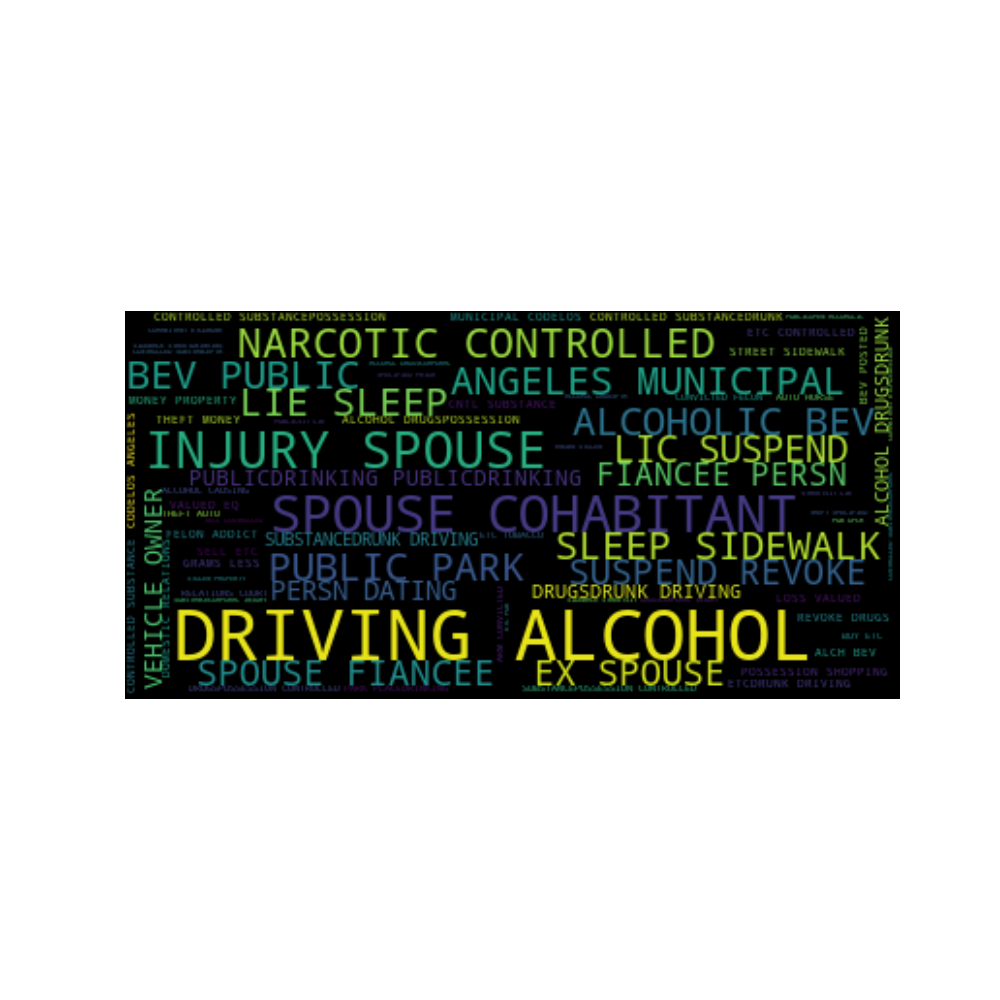
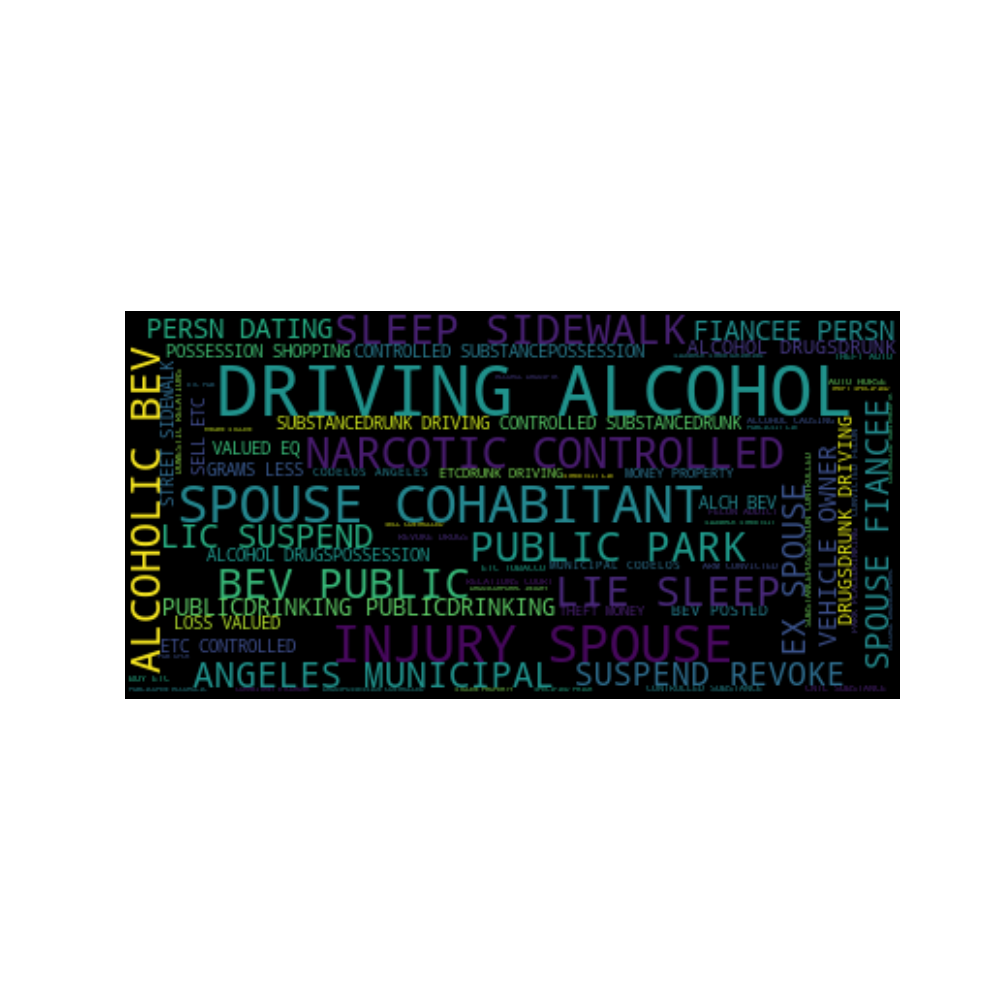
feat: histogram of charges and charge groups

Changed region(s): [[0.124, 0.31, 0.899, 0.713]]

diff --git a/app/app.py b/app/app.py
@@ -1,7 +1,7 @@
 import pandas as pd
 import matplotlib.pyplot as plt
 import seaborn as sb
-import geopandas as gpd
+# import geopandas as gpd
 import wordcloud
 import os
 
@@ -77,19 +77,15 @@ results_save_path = os.path.abspath("..") + os.path.sep + "data" + os.path.sep +
 # read the csv files and geojson
 df_arrest = pd.read_csv(arrest_dataset_path, sep=',')
 df_trip = pd.read_csv(trip_dataset_path, sep=',')
-df_geo = gpd.read_file(geolocation_data_path)
+#df_geo = gpd.read_file(geolocation_data_path)
 
-# quick statistics of the dataframes
+# quick statistics before feature extraction and data cleaning
 print("\n")
+print("Datasets before preprocessing:\n")
 df_arrest.info()
 print("\n\n")
 df_trip.info()
 print("\n")
-
-# print rows containing nan
-arrest_nan_df = df_arrest[df_arrest.isna().any(axis=1)]
-print(arrest_nan_df)
-
 
 ###################################################################################
 # Data preprocessing
@@ -102,31 +98,74 @@ trip_cols = ['Start Time', 'End Time', 'Starting Station ID', 'Starting Station 
 df_arrest = df_arrest[arrest_cols]
 df_trip = df_trip[trip_cols]
 
+# drop rows according to missing values in important columns
+df_arrest = df_arrest.dropna(subset=['Charge Group Description'])
+df_trip = df_trip.dropna(subset=['Ending Station Latitude', 'Starting Station Latitude'])
+
 # replace Nan in Charge Group Description and Charge Description with Unknown/UNKNOWN
 df_arrest['Charge Group Description'].fillna('Unknown', inplace=True)
 df_arrest['Charge Description'].fillna('UNKNOWN', inplace=True)
 
+# replace missing arrest time with midday (1200)
+df_arrest['Time'].fillna(1200, inplace=True)
+df_arrest['Cross Street'].fillna('Unknown', inplace=True)
+
+# quick summary of the data after preprocessing
+print("\n")
+print("Datasets after preprocessing:\n")
+df_arrest.info()
+print("\n\n")
+df_trip.info()
+print("\n")
+
 ###################################################################################
 # Analyse arrest dataset
 ###################################################################################
+def generate_wordcloud(column):
+    # get list of words
+    column_elems = "".join(desc for desc in df_arrest[column])
+
+    # establish the wordclouds
+    elems_wc = wordcloud.WordCloud().generate(column_elems)
+    plt.figure(figsize=[10, 10])
+    plt.imshow(elems_wc, interpolation='bilinear')
+    plt.axis("off")
+    plt.savefig(results_save_path + "wordcloud_" + column.replace(" ", "_") + ".png", format='png')
+
+
+def generate_histogram(name, bin_color, x, y, data, xlabel, ylabel):
+    sb.set(style="whitegrid")
+    f, ax = plt.subplots(figsize=(30, 15))
+    sb.set_color_codes("pastel")
+    sb.barplot(x=x, y=y, data=data, label="Total", color=bin_color)
+    ax.legend(ncol=2, loc="lower right", frameon=True)
+    ax.set(ylabel=ylabel, xlabel=xlabel)
+    sb.despine(left=True, bottom=True)
+    plt.savefig(results_save_path + "histogram_" + name.replace(" ", "_") + ".png", format='png')
+
+
+def generate_df_count(df_data, column):
+    df_count = pd.DataFrame(df_data.groupby(column)\
+                                          .size()
+                                          .sort_values(ascending=False)\
+                                          .rename('Counts')
+                                          .reset_index())
+    return df_count
+
+
 # most frequently committed crimes - wordcount
-print(df_arrest['Charge Description'])
-charge_desc_list = "".join(desc for desc in df_arrest['Charge Description'])
-charge_group_desc_list = "".join(desc for desc in df_arrest['Charge Group Description'])
+#generate_wordcloud('Charge Description')
+#generate_wordcloud('Charge Group Description')
 
-# establish the wordclouds
-charge_desc_wc = wordcloud.WordCloud().generate(charge_desc_list)
-plt.figure(figsize=[10, 10])
-plt.imshow(charge_desc_wc, interpolation='bilinear')
-plt.axis("off")
-plt.savefig(results_save_path + "charge_description_wordcloud.png", format='png')
+# most frequently committed crimes - histograms
+df_charge_group_desc_count = generate_df_count(df_arrest, 'Charge Group Description')
+df_charge_desc_count = generate_df_count(df_arrest, 'Charge Description')
 
-charge_group_desc_wc = wordcloud.WordCloud().generate(charge_group_desc_list)
-plt.figure(figsize=[10, 10])
-plt.imshow(charge_group_desc_wc, interpolation='bilinear')
-plt.axis("off")
-plt.savefig(results_save_path + "charge_group_description_wordcloud.png", format='png')
 
-plt.show()
+generate_histogram('Charge Group Description', 'b', 'Counts', 'Charge Group Description',
+                   df_charge_group_desc_count.iloc[:10, :], 'Counts', 'Charge Group Description')
+generate_histogram('Charge Description', 'b', 'Counts', 'Charge Description', df_charge_desc_count.iloc[:10, :],
+                   'Counts', 'Charge Description')
+
 
 ###################################################################################
